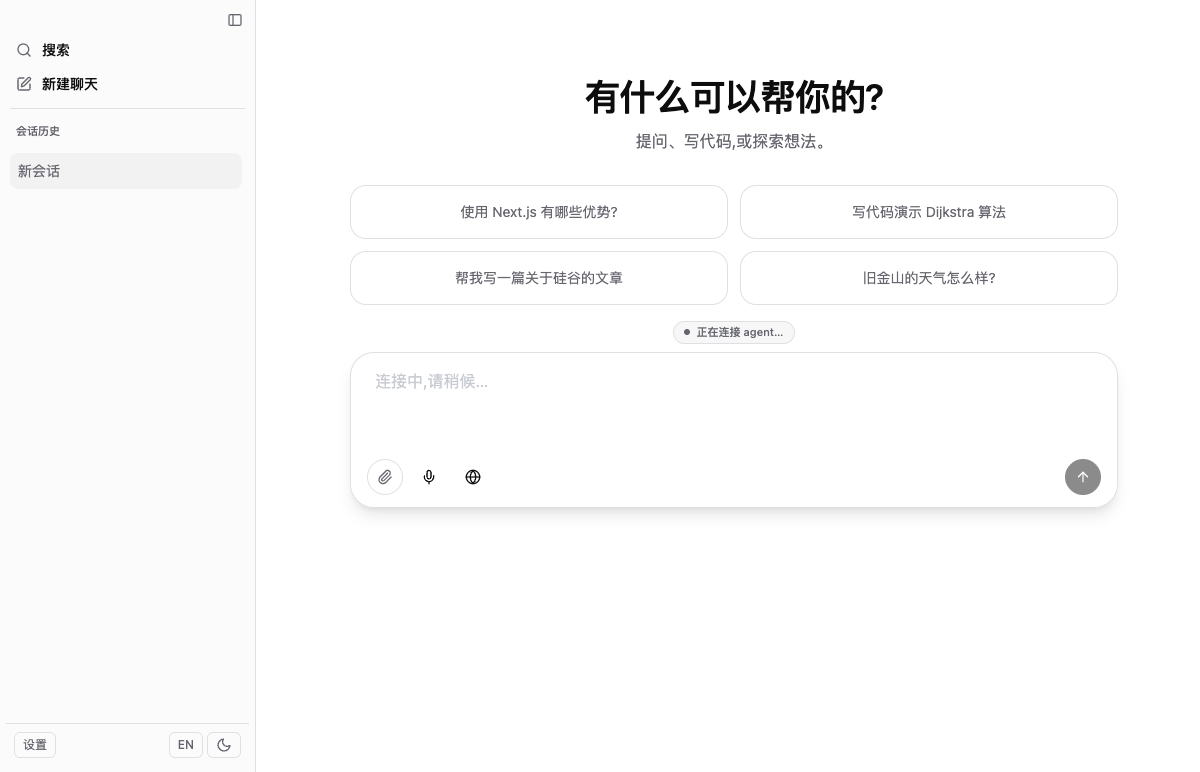
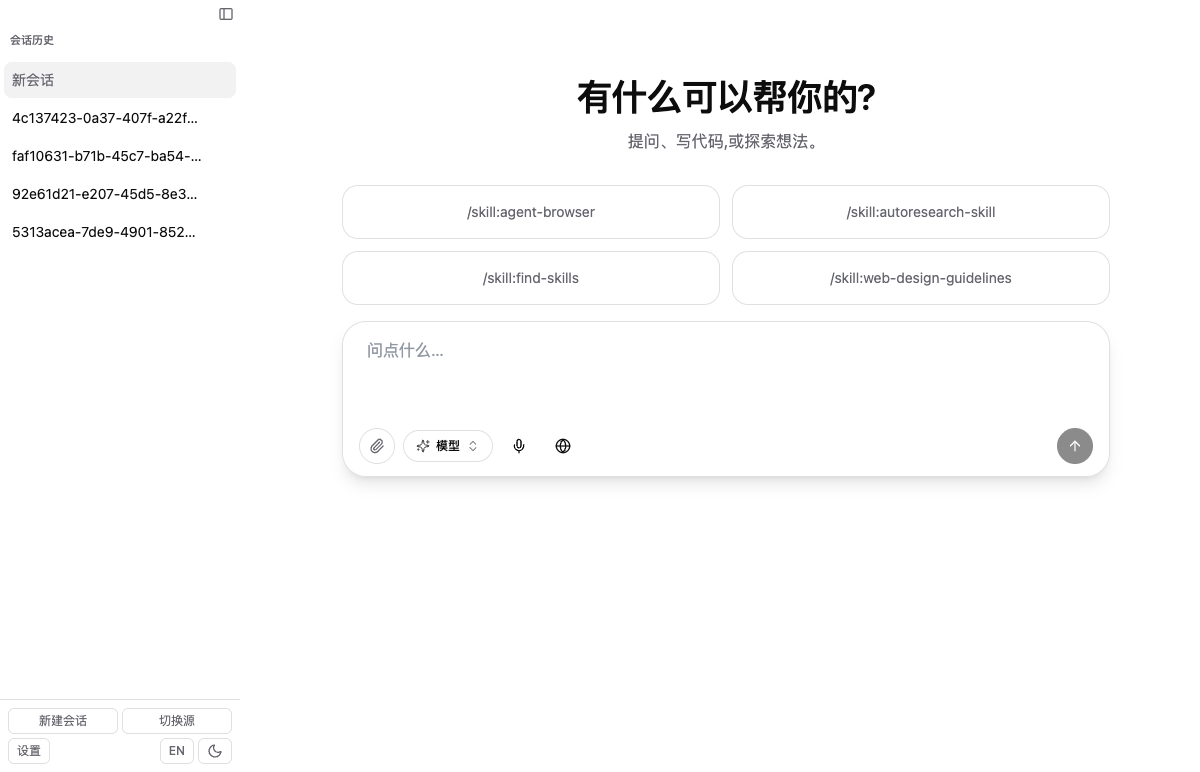
merge: 整合 origin/main(PR #3 桌面目录选择桥) + 清理全仓 Next 残余
远端 main 在我基点之后合并了 PR #3(feat/desktop-directory-picker):
桌面壳原生目录选择桥 + AppImage executableName 修复。快进推送不成立,故 merge。

Git 自动合并零冲突,但**自动合并成功 ≠ 语义正确** —— 那 21 个文件是在 Next 还在的
世界里写的。逐个核对后发现并修复:

★ e2e/desktop/desktop-directory-picker.mjs 仍指向 `.next-cli/standalone/server.js`
  (那个产物已不存在)。切到 dist/server.mjs,与另外三个 desktop e2e 一致。

四个双方都改的文件已正确并存:
  components/chat-app.tsx      我的门控惰性化(10 处 memoizeFeature) + 远端 desktop-bridge
  desktop/src/main.ts          distServerJs() + registerDirectoryPickerBridge()
  desktop/electron-builder.yml extraResources 指 dist/ + executableName: pi-web
  package.json                 version 0.1.3 + 我的脚本 + 无 next 依赖

── 清理 Next 残余(任务 11.3 的验收面漏了这些) ──

★ .github/workflows/{cli-e2e,desktop-release}.yml 仍在 `pnpm build:cli` 并 tar
  `.next-cli/standalone` —— **CI 本已是坏的**,只是没人跑到。改为 build:dist + tar dist。
  保留 tar 的符号链接处理:pack-dist 把运行时依赖 dereference 成实体树,但
  node_modules/@user/* 仍是 junction。
★ scripts/e2e-readiness.sh 仍在调 `pnpm exec next build` + `next start`。整体重写。
  该脚本原先存在的两条理由(next start 不兼容 standalone、playwright webServer 超时)
  已随 Next 一并消失,注释里留了说明。
- 三个 e2e 脚本仍传 NEXT_DIST_DIR env(DIST 常量已改,该 env 名已无意义)→ PI_WEB_DIST_DIR
- 33 个文件的文件头注释里的旧跑法(next build / next start / .next-e2e / "真实 Next server")

保留不动:
- playwright.config.ts 与 e2e-readiness.sh 里「随 Next 一并消失」的历史说明(有价值)
- packages/server 里 `.next*` 的死忽略条目(packages/* 零改动是硬约束,且无害;
  `dist` 已在同一列表中,@ 补全不会扫产物)
- .kiro/ 下的历史 spec(当时的如实记录,不应追改)

回归:typecheck(app + desktop)绿;单测 235 passed / 3 failed(pre-existing 的
[…]

diff --git a/e2e/browser/attachment-store.e2e.ts b/e2e/browser/attachment-store.e2e.ts
@@ -3,9 +3,9 @@ import { test, expect } from "@playwright/test";
 /**
  * attachment-store browser e2e — 添加附件 → 上传落库 → 以分发 URL 展示 全链路。
  *
- * Full closed loop against the REAL Next server with the deterministic offline
- * stub agent (PI_WEB_STUB_AGENT=1), in the isolated e2e build (NEXT_DIST_DIR=
- * .next-e2e) + external-server mode (does not clobber a running `next dev`'s
+ * Full closed loop against the REAL pi-web server with the deterministic offline
+ * stub agent (PI_WEB_STUB_AGENT=1), in the isolated e2e build (PI_WEB_DIST_DIR=
+ * dist/) + external-server mode (does not clobber a running dev server's
  * .next). Upload (POST /api/sessions/:id/attachments) is agent-independent; the
  * stub only creates the session and surfaces the chat UI.
  *
@@ -13,7 +13,7 @@ import { test, expect } from "@playwright/test";
  *  - 5.1 — 添加附件先上传到会话上传端点,拿正式公开 id(uploading → ready)。
  *  - 5.2 — 落库后缩略图以**网络分发 URL** 展示(非 `data:` base64)。
  *  - 8.2 — 覆盖「添加→上传落库→以分发 URL 展示」的完整浏览器链路。
- *  - 8.3 — 在隔离构建产物(.next-e2e)下运行,不污染开发态 .next。
+ *  - 8.3 — 在隔离构建产物(dist/)下运行,不污染开发态。
  *
  * 断言重点(design.md 行 498 / task 6.1):缩略图 `<img src>` 指向分发端点
  * `/attachments/.../raw`(非 `data:`),且对该 URL 的网络响应 **200**。

diff --git a/e2e/browser/attachment-tool-bridge.e2e.ts b/e2e/browser/attachment-tool-bridge.e2e.ts
@@ -4,8 +4,8 @@ import { test, expect } from "@playwright/test";
  * attachment-tool-bridge browser e2e — full chain (task 6.2; Req 7.2, 10.2,
  * 10.3, 10.4).
  *
- * Drives the FULL closed loop against the REAL Next server in the isolated e2e
- * build (NEXT_DIST_DIR=.next-e2e) + external-server mode, with a deterministic,
+ * Drives the FULL closed loop against the REAL pi-web server in the isolated e2e
+ * build (PI_WEB_DIST_DIR) + external-server mode, with a deterministic,
  * LLM-free stub fixture (PI_WEB_STUB_AGENT_PATH → attachment-tool-bridge-stub.mjs)
  * that runs the GENUINE attachment tool-execution chain (subprocess store
  * resolve → transform → putOutput → reference reflow → real afterToolCall base64
@@ -17,7 +17,7 @@ import { test, expect } from "@playwright/test";
  *  - 10.2 — 上传 → 发消息(引用)→ tool 以公开 id resolve → 执行 → 产出落库 →
  *           引用回流 → 前端经分发 URL 展示 的完整浏览器链路。
  *  - 7.2  — 产出附件的公开 id 与上传 id 同一空间,可被下一轮消息再次引用(回环 B)。
- *  - 10.3 — 在隔离构建产物(.next-e2e)下运行,不污染开发态 .next。
+ *  - 10.3 — 在隔离构建产物(dist/)下运行,不污染开发态。
  *  - 10.4 — 以新鲜运行证据证明。
  *
  * Assertions:

diff --git a/e2e/browser/aigc-generation.e2e.ts b/e2e/browser/aigc-generation.e2e.ts
@@ -5,8 +5,8 @@
  * To run it you need:
  *   - DASHSCOPE_API_KEY set to a valid key (for real generation tests)
  *   - pi auth configured (for the agent session)
- *   - The isolated e2e build running: NEXT_DIST_DIR=.next-e2e pnpm next build
- *   - An external server started against .next-e2e
+ *   - The isolated e2e build running: pnpm build:dist
+ *   - An external server started against dist/
  *
  * Without real credentials, this file verifies:
  *   - examples/aigc-agent source loads and a session can be started

diff --git a/e2e/browser/aigc-image-edit.e2e.ts b/e2e/browser/aigc-image-edit.e2e.ts
@@ -9,11 +9,11 @@
  * 而失败;修复后应正常出图。
  *
  * 运行(隔离 build + external server,见 memory pi-web-e2e-isolated-build):
- *   NEXT_DIST_DIR=.next-e2e pnpm build            # 或复用已有 .next-e2e
+ *   pnpm build:dist            # 或复用已有 dist/
  *   NEWAPI_API_KEY=… PI_WEB_STUB_AGENT=1 \
  *     PI_WEB_STUB_AGENT_PATH=./e2e/fixtures/aigc-image-edit-stub.mjs \
  *     SESSION_STORE=fs SESSION_STORE_ROOT=$FS \
- *     NEXT_DIST_DIR=.next-e2e next start -p 3100 &
+ *     PORT=3100 node dist/server.mjs &
  *   PI_WEB_E2E_EXTERNAL_SERVER=1 NEWAPI_API_KEY=… \
  *     pnpm e2e aigc-image-edit
  *

diff --git a/e2e/browser/agent-authoritative-surface.e2e.ts b/e2e/browser/agent-authoritative-surface.e2e.ts
@@ -3,7 +3,7 @@ import { test, expect } from "@playwright/test";
 /**
  * agent 权威 surface(agent-authoritative-surface)浏览器级 e2e —— 端到端命令闭环 + 退化。
  *
- * 对真实 Next server + 离线 stub agent(PI_WEB_STUB_AGENT=1)运行。
+ * 对真实 pi-web server + 离线 stub agent(PI_WEB_STUB_AGENT=1)运行。
  * surface-demo-agent 的 `.pi/web` 在 panelRight 槽渲染 domain="demo" 的权威快照 `{count,log}`:
  *
  *  ① 命令闭环(不过 LLM):选 `surface-demo-agent` → 探针 `surface:demo` 可见(available=true)→

diff --git a/e2e/browser/agent-routes.e2e.ts b/e2e/browser/agent-routes.e2e.ts
@@ -3,7 +3,7 @@ import { test, expect } from "@playwright/test";
 /**
  * agent-declared-routes 浏览器级 e2e(spec agent-declared-routes task 5.2)。
  *
- * 对真实 Next server + 离线 stub agent(PI_WEB_STUB_AGENT=1)运行。stub 装配期
+ * 对真实 pi-web server + 离线 stub agent(PI_WEB_STUB_AGENT=1)运行。stub 装配期
  * 搭车 get_commands 就绪探针发 `agent_routes` 声明帧(演示 routes:
  * `gallery-stats` GET 定值 / `echo` POST 回显),主进程缓存为会话路由表并挂载
  * `/api/sessions/:id/agent-routes[...]` 端点。

diff --git a/e2e/browser/aigc-canvas.e2e.ts b/e2e/browser/aigc-canvas.e2e.ts
@@ -3,7 +3,7 @@ import { test, expect } from "@playwright/test";
 /**
  * aigc-canvas 浏览器级 e2e —— 画廊物化视图闭环 + 刷新回放 + 退化(source 声明驱动,免门控)。
  *
- * 对真实 Next server + 离线 stub agent(PI_WEB_STUB_AGENT=1)运行。Canvas 由 source 声明驱动
+ * 对真实 pi-web server + 离线 stub agent(PI_WEB_STUB_AGENT=1)运行。Canvas 由 source 声明驱动
  * (免全局门控):`aigc-canvas-agent` 的 `.pi/web` 在 launcherRail 挂 `CanvasLauncher`、
  * panelRight 挂 `CanvasPanel`(有 surface 接入 → 画廊/工作台),挂载即显示。
  * stub 代替真实 canvas 命令处理器:装配期推种子图(hydrate 模拟)+ 派发 A/B 档命令维护

diff --git a/e2e/browser/aigc-prompt-toolbar.e2e.ts b/e2e/browser/aigc-prompt-toolbar.e2e.ts
@@ -3,7 +3,7 @@ import { test, expect } from "@playwright/test";
 /**
  * aigc-prompt-toolbar 浏览器级 e2e —— 工具排 AIGC 快捷设置(模型/尺寸偏好)。
  *
- * 对真实 Next server + 离线 stub agent(PI_WEB_STUB_AGENT=1)运行(隔离 NEXT_DIST_DIR=.next-e2e
+ * 对真实 pi-web server + 离线 stub agent(PI_WEB_STUB_AGENT=1)运行(隔离产物目录 PI_WEB_DIST_DIR
  * build + PI_WEB_E2E_EXTERNAL_SERVER=1 手动 fs:3100)。
  *
  *  ① 渲染位置:选 aigc-canvas-agent(source 声明 promptToolbar 槽)→ 快捷设置出现在输入区

diff --git a/e2e/browser/aigc-tool-settings.e2e.ts b/e2e/browser/aigc-tool-settings.e2e.ts
@@ -3,7 +3,7 @@ import { test, expect } from "@playwright/test";
 /**
  * aigc-tool-settings 浏览器 e2e —— /settings 页「AIGC 图像工具」面板(关模型 + 提示词优化)。
  *
- * 对真实 Next server + 离线 stub agent(PI_WEB_STUB_AGENT=1)运行(隔离 NEXT_DIST_DIR=.next-e2e)。
+ * 对真实 pi-web server + 离线 stub agent(PI_WEB_STUB_AGENT=1)运行(隔离产物目录 PI_WEB_DIST_DIR)。
  * 面板为标准 config 域 `aigc`:模型开关清单(自定义 widget,来自 GET /api/aigc/models)+ 提示词
  * 优化布尔开关;保存落 config 域文件 `<agentDir>/aigc.json`(临时 agentDir,不污染用户配置)。
  * 装配期「被禁模型从 LLM 枚举/清单移除」由 tool-kit 集成测试证明,本 e2e 覆盖设置页 UI↔持久往返。

diff --git a/e2e/browser/bash-command.e2e.ts b/e2e/browser/bash-command.e2e.ts
@@ -1,7 +1,7 @@
 import { test, expect } from "@playwright/test";
 
 /**
- * Bang(`!`)shell 命令 browser e2e(spec bang-shell-command)— 真实 Next server +
+ * Bang(`!`)shell 命令 browser e2e(spec bang-shell-command)— 真实 pi-web server +
  * 离线 stub agent(stub 用 execSync 真实执行 shell)。
  *
  * 覆盖(开启档:NEXT_PUBLIC_PI_WEB_BASH_ENABLED=1 build + PI_WEB_BASH_ENABLED=1 server):

diff --git a/e2e/browser/canvas-plugin-stickers.e2e.ts b/e2e/browser/canvas-plugin-stickers.e2e.ts
@@ -3,7 +3,7 @@ import { test, expect } from "@playwright/test";
 /**
  * canvas-plugin-stickers 浏览器级 e2e —— Canvas 插件双端范例(canvas-plugins-m3 · R7.5)。
  *
- * 对真实 Next server + 离线 stub agent(PI_WEB_STUB_AGENT=1)运行。贴纸 source
+ * 对真实 pi-web server + 离线 stub agent(PI_WEB_STUB_AGENT=1)运行。贴纸 source
  * (`canvas-plugin-stickers`)是 domain=canvas 的权威 surface 范例:`.pi/web` 复用
  * `CanvasLauncher`/`CanvasPanel`,并经 `canvasPlugins:[stickersBundle]`(车道①)贡献
  * 贴纸图层/工具 + 风格迁移动作。构建期集成(lib/app/webext-registry)静态 import 其

diff --git a/e2e/browser/completion.e2e.ts b/e2e/browser/completion.e2e.ts
@@ -3,7 +3,7 @@ import { test, expect } from "@playwright/test";
 /**
  * completion-provider-framework 浏览器 e2e。
  *
- * 对真实 Next server + 离线 stub agent(PI_WEB_STUB_AGENT=1)运行。验证 core 触发符
+ * 对真实 pi-web server + 离线 stub agent(PI_WEB_STUB_AGENT=1)运行。验证 core 触发符
  * 补全:在会话输入框键入 `@` → 弹出按 kind 分区的文件候选浮层 → 选中后输入框被插入
  * `@file:<相对路径>` token。会话 cwd = 选中的 agent 源目录(hello-agent 含 index.ts)。
  */